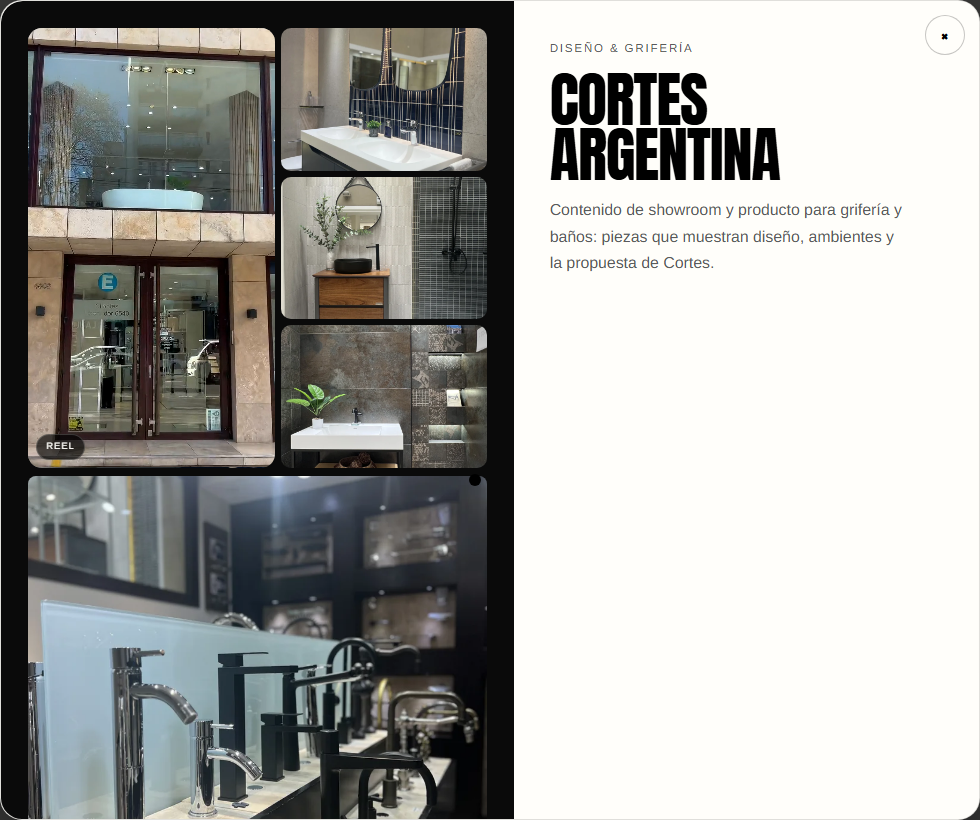
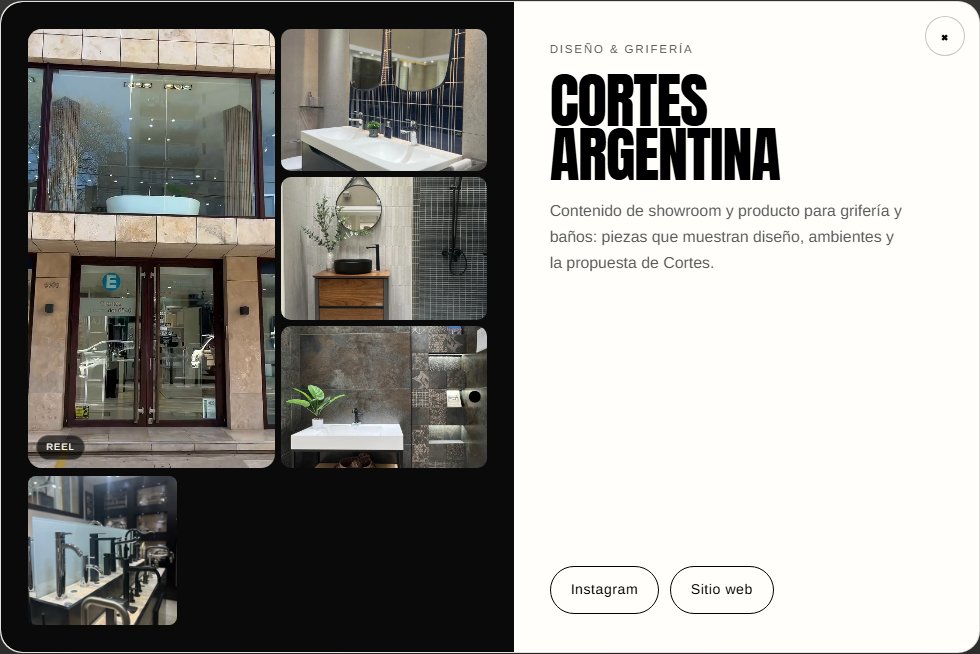
Enhance work modal layout in index.html; add styles for single child image display and update cortés-modal.png for improved visual presentation.

diff --git a/index.html b/index.html
@@ -639,6 +639,8 @@ section{padding:clamp(5rem,11vh,10rem) var(--pad);position:relative}
 .work-modal-strip .wm-ph{
   flex:1 1 0;aspect-ratio:1;min-width:0;border-radius:8px;overflow:hidden;position:relative;background:#1a1a1a;
 }
+.work-modal-strip:has(.wm-ph:only-child){justify-content:flex-start}
+.work-modal-strip:has(.wm-ph:only-child) .wm-ph{flex:0 0 calc((100% - 12px) / 3)}
 .work-modal-strip .wm-ph img{position:absolute;inset:0;width:100%;height:100%;object-fit:cover;display:block}
 .work-modal-extra:empty{display:none}
 .work-modal-extra{
